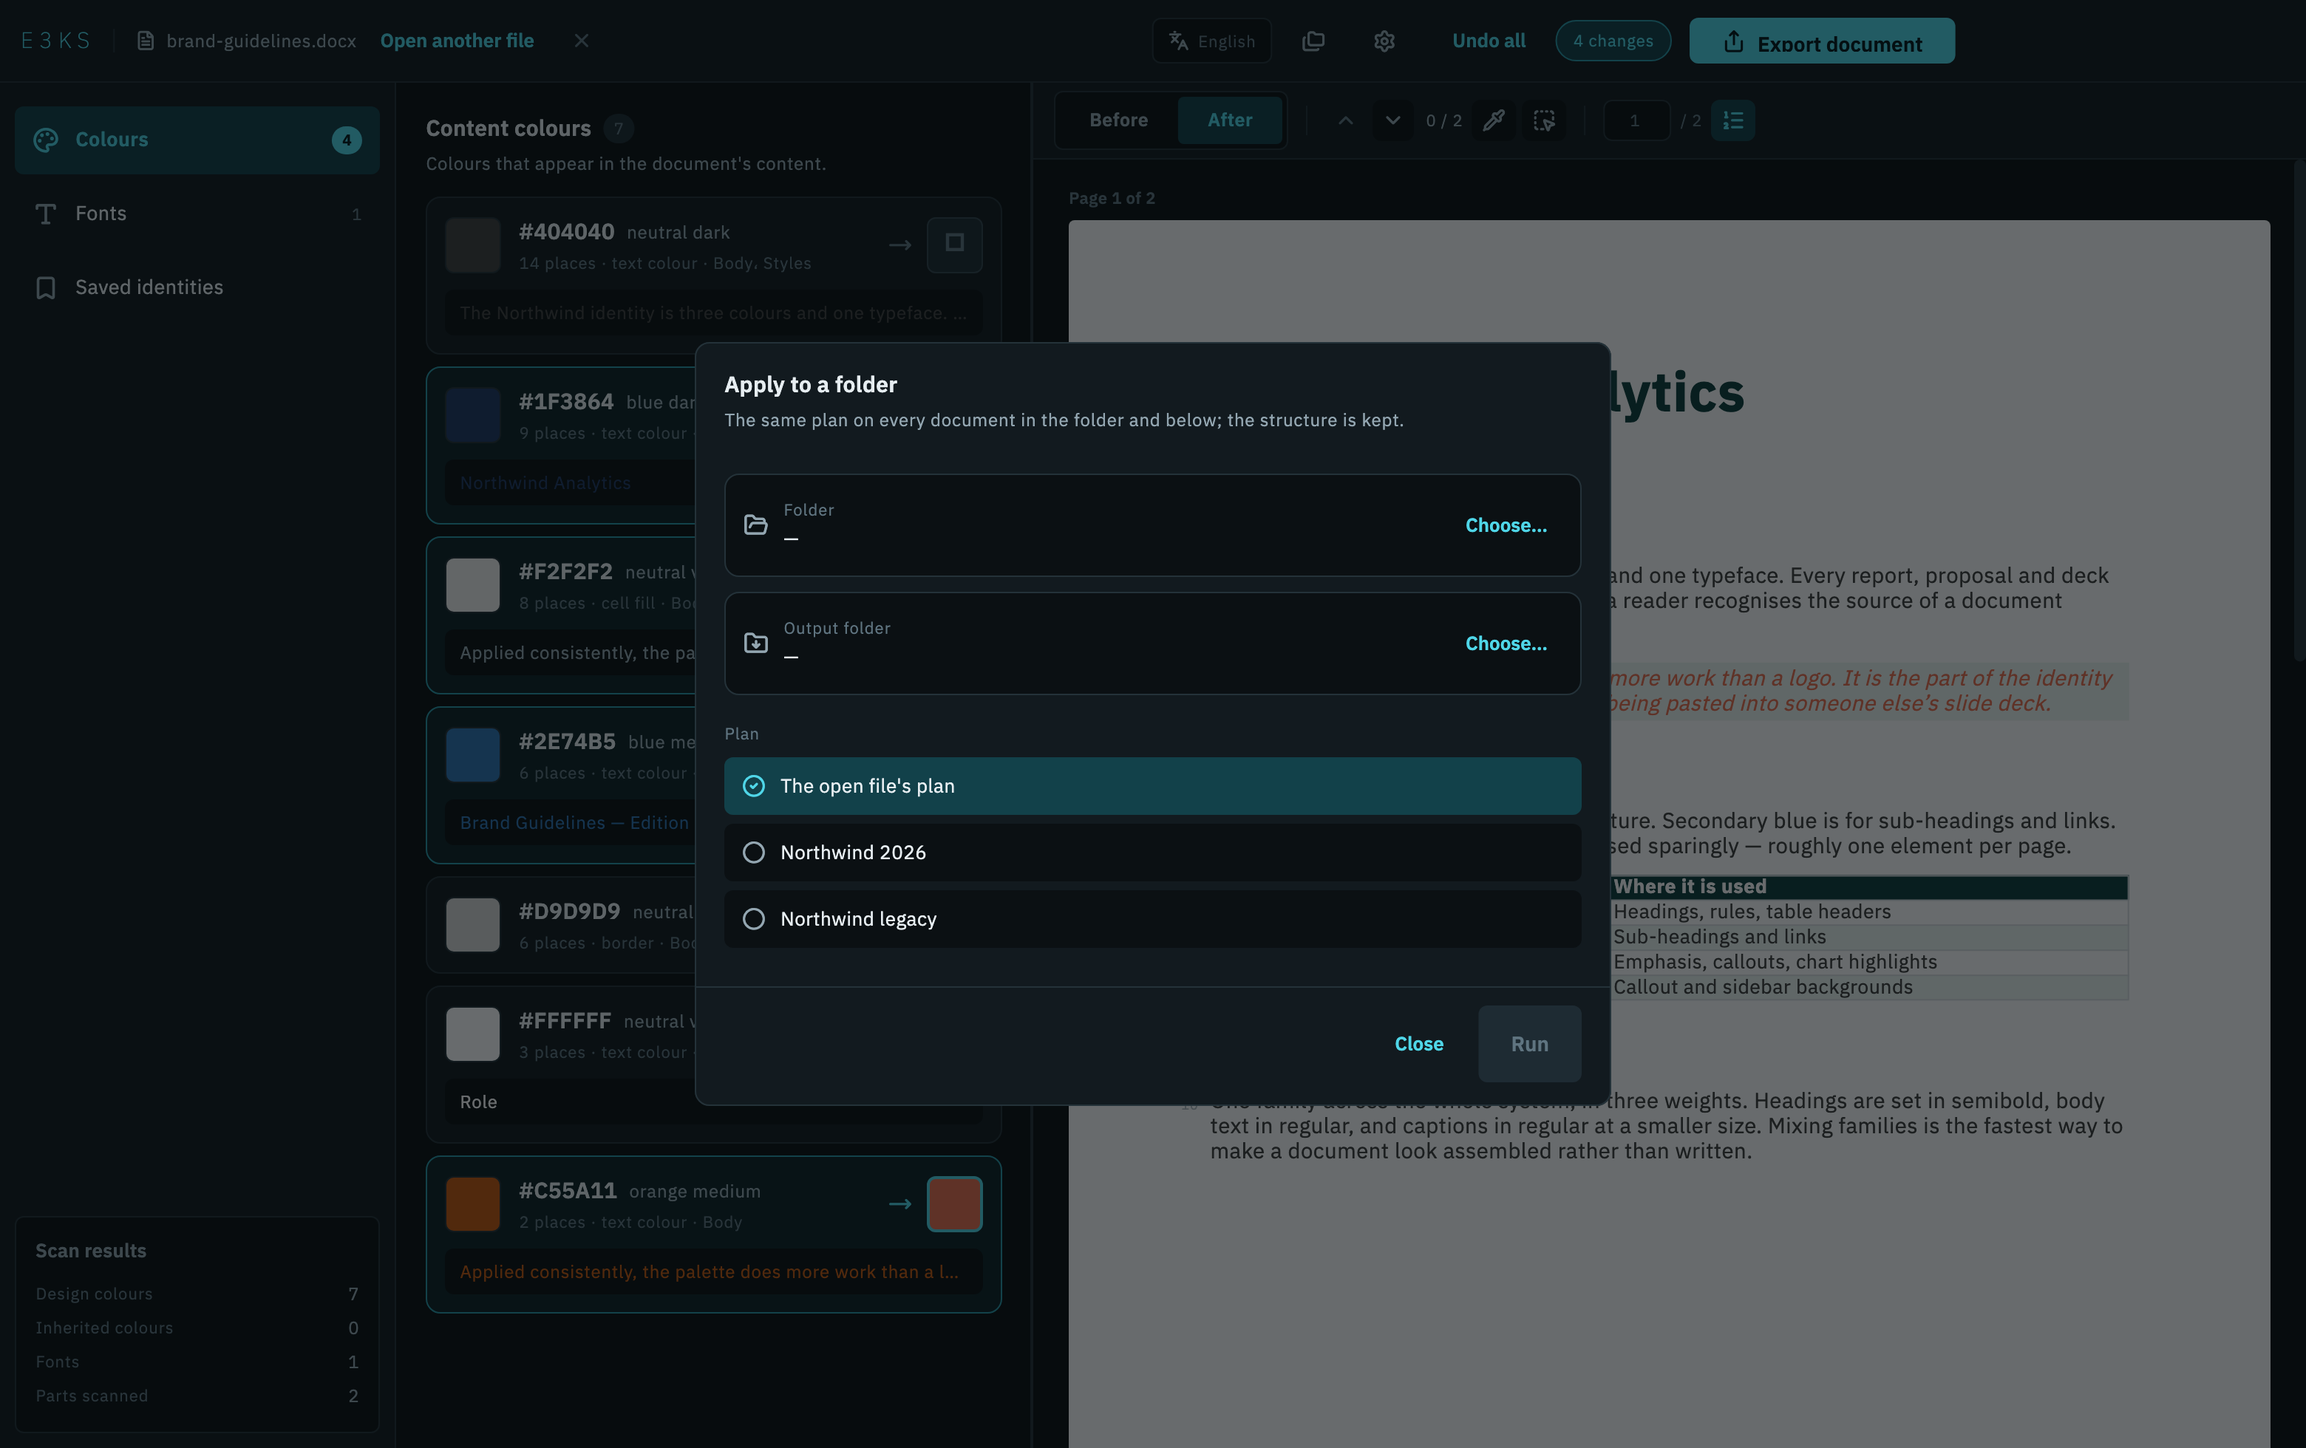
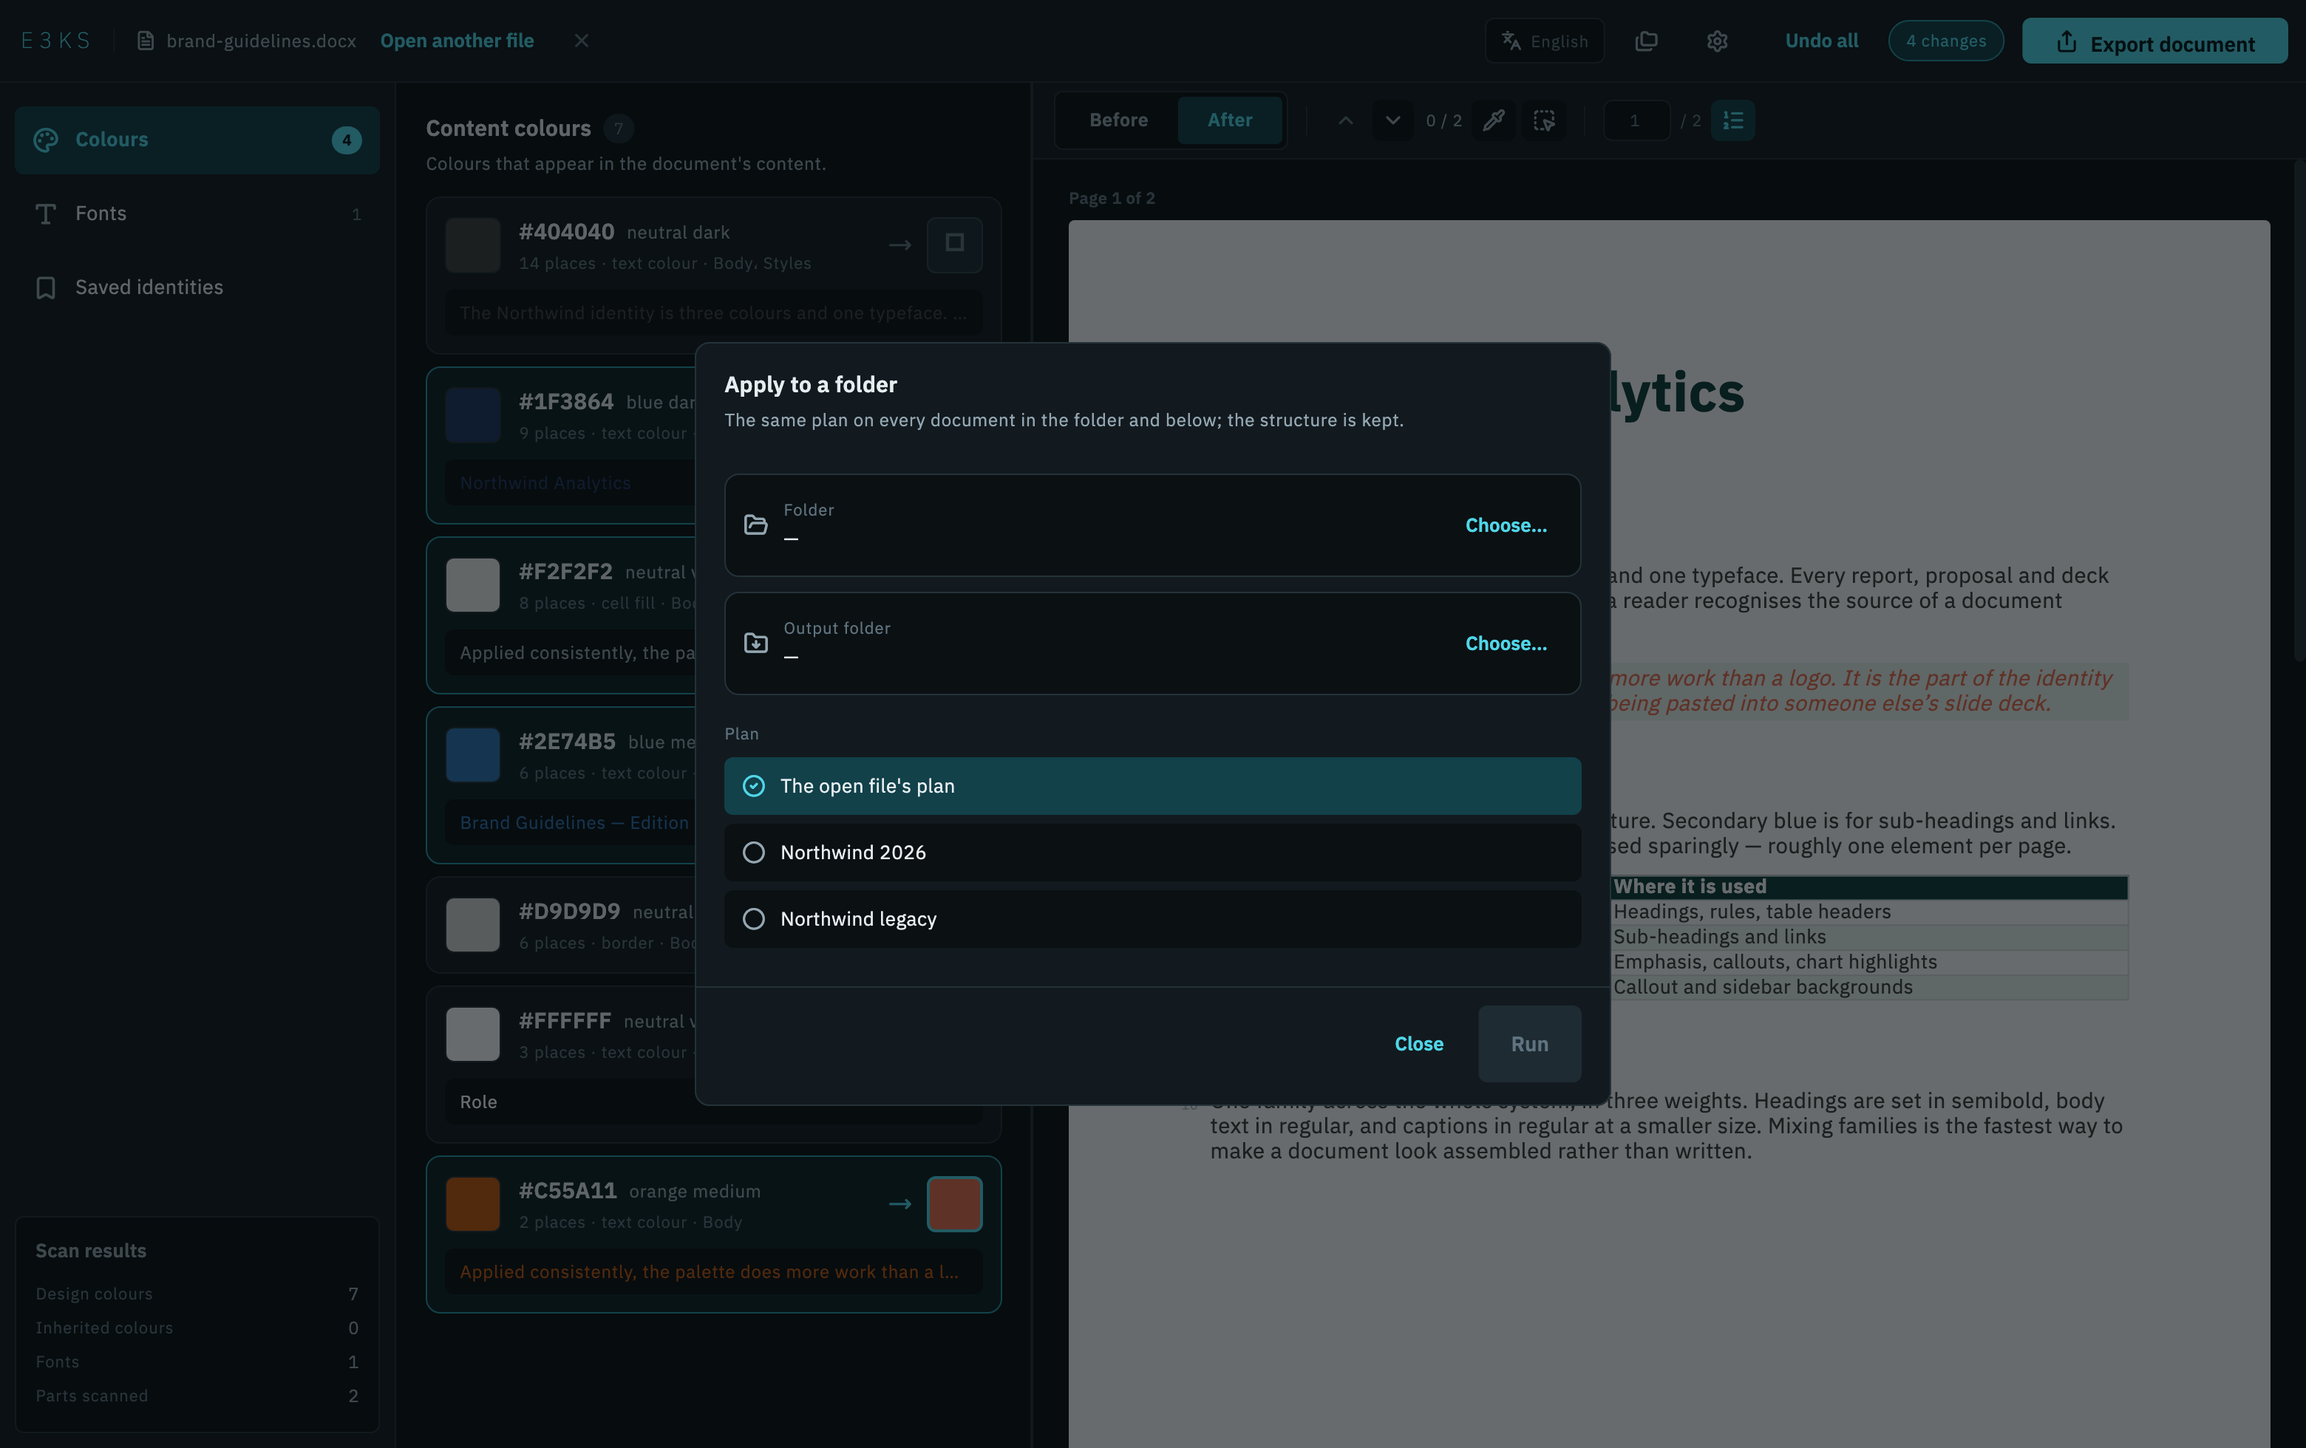
fix: update layout handling in top bar to prevent overflow and ensure proper alignment

Changed region(s): [[0.6529, 0.0, 0.9949, 0.0622]]

diff --git a/apps/e3ks_desktop/lib/features/workspace/workspace_screen.dart b/apps/e3ks_desktop/lib/features/workspace/workspace_screen.dart
@@ -344,52 +344,68 @@ class _TopBar extends StatelessWidget {
         data: theme.copyWith(visualDensity: VisualDensity.compact),
         child: Row(
           children: [
-            Text(
-              t.appName,
-              style: const TextStyle(
-                fontSize: 15,
-                fontWeight: Type.display,
-                letterSpacing: 4,
-                color: Shade.mirror,
+            // **الطرف الأيسر مرنٌ واحد، والفائض لا يُقسَم.**
+            //
+            // كان هنا `Flexible` لاسم الملف و`Spacer` بعده، ولكلٍّ منهما
+            // مرونة ١. و`RenderFlex` يقسم الفضاء الحرّ بينهما بالتساوي،
+            // فيأخذ الاسم حاجته وحدها ويسقط باقي نصيبه **في آخر الصفّ**:
+            // الطرف الأيمن ينزاح عن حافّته بنصف ما يفيض عن الاسم — فراغٌ
+            // يتّسع باتّساع النافذة، وقد بلغ ٣٢٣ بكسل في لقطات README حتى
+            // بدا كأنه حجزٌ لأزرار نظامٍ غائبة.
+            //
+            // مرنٌ واحد يبتلع الفضاء كلّه، فيلتصق الطرف الأيمن بحافّته
+            // مهما طال الاسم أو قصر، ويبقى القصّ داخل الصفّ الداخلي.
+            Expanded(
+              child: Row(
+                children: [
+                  Text(
+                    t.appName,
+                    style: const TextStyle(
+                      fontSize: 15,
+                      fontWeight: Type.display,
+                      letterSpacing: 4,
+                      color: Shade.mirror,
+                    ),
+                  ),
+                  Container(
+                    width: 1,
+                    height: 16,
+                    margin: const EdgeInsets.symmetric(horizontal: 14),
+                    color: Shade.border,
+                  ),
+                  if (document == null)
+                    Text(t.tagline, style: theme.textTheme.labelSmall)
+                  else ...[
+                    const Icon(
+                      LucideIcons.fileText,
+                      size: 14,
+                      color: Shade.textMuted,
+                    ),
+                    const SizedBox(width: 7),
+                    // اسم الملف قد يطول؛ يُقصّ ولا يدفع شيئًا خارج النافذة.
+                    Flexible(
+                      child: Text(
+                        document.fileName,
+                        maxLines: 1,
+                        overflow: TextOverflow.ellipsis,
+                        style: theme.textTheme.bodySmall,
+                      ),
+                    ),
+                    const SizedBox(width: 4),
+                    TextButton(onPressed: onBrowse, child: Text(t.openAnother)),
+                    if (store.tabs.length < 2)
+                      IconButton(
+                        onPressed: onClose,
+                        icon: const Icon(LucideIcons.x, size: 15),
+                        color: Shade.textFaint,
+                        visualDensity: VisualDensity.compact,
+                        tooltip: t.close,
+                      ),
+                  ],
+                  const SizedBox(width: 12),
+                ],
               ),
             ),
-            Container(
-              width: 1,
-              height: 16,
-              margin: const EdgeInsets.symmetric(horizontal: 14),
-              color: Shade.border,
-            ),
-            if (document == null)
-              Text(t.tagline, style: theme.textTheme.labelSmall)
-            else ...[
-              const Icon(
-                LucideIcons.fileText,
-                size: 14,
-                color: Shade.textMuted,
-              ),
-              const SizedBox(width: 7),
-              // اسم الملف قد يطول؛ يُقصّ ولا يدفع شيئًا خارج النافذة.
-              Flexible(
-                child: Text(
-                  document.fileName,
-                  maxLines: 1,
-                  overflow: TextOverflow.ellipsis,
-                  style: theme.textTheme.bodySmall,
-                ),
-              ),
-              const SizedBox(width: 4),
-              TextButton(onPressed: onBrowse, child: Text(t.openAnother)),
-              if (store.tabs.length < 2)
-                IconButton(
-                  onPressed: onClose,
-                  icon: const Icon(LucideIcons.x, size: 15),
-                  color: Shade.textFaint,
-                  visualDensity: VisualDensity.compact,
-                  tooltip: t.close,
-                ),
-            ],
-            const SizedBox(width: 12),
-            const Spacer(),
             _LanguageMenu(settings: settings),
             const SizedBox(width: 4),
             // الدفعة بجوار الإعدادات: كلاهما فعلٌ يفتح حوارًا، ولا يزاحم

diff --git a/apps/e3ks_desktop/test/top_bar_frame_test.dart b/apps/e3ks_desktop/test/top_bar_frame_test.dart
@@ -2,6 +2,7 @@
 library;
 
 import 'dart:io';
+import 'dart:typed_data';
 
 import 'package:e3ks_desktop/app/theme.dart';
 import 'package:e3ks_desktop/data/font_cache.dart';
@@ -30,7 +31,22 @@ final SettingsStore _settings = SettingsStore(
 final FontService _fonts = FontService(FontCache(Directory.systemTemp))
   ..fetchEnabled = false;
 
-Widget harness(WindowFrame frame) => MaterialApp(
+/// مستند العرض المشحون مع المستودع — موجود دائمًا، فلا اختبار يُتخطّى.
+const String _demo = '../../docs/demo/brand-guidelines.docx';
+
+Future<WorkspaceStore> openDemo(WidgetTester tester) async {
+  final store = WorkspaceStore();
+  await tester.runAsync(
+    () => store.open(
+      _demo,
+      'brand-guidelines.docx',
+      Uint8List.fromList(File(_demo).readAsBytesSync()),
+    ),
+  );
+  return store;
+}
+
+Widget harness(WindowFrame frame, {WorkspaceStore? store}) => MaterialApp(
   theme: buildTheme(),
   locale: const Locale('ar'),
   supportedLocales: L.supportedLocales,
@@ -41,7 +57,7 @@ Widget harness(WindowFrame frame) => MaterialApp(
     GlobalCupertinoLocalizations.delegate,
   ],
   home: WorkspaceScreen(
-    store: _store,
+    store: store ?? _store,
     identities: _identities,
     settings: _settings,
     fonts: _fonts,
@@ -131,6 +147,36 @@ void main() {
 
     await tester.pumpAndSettle();
     expect(topBarPadding(tester).right, equals(_inset));
+  });
+
+  testWidgets('طرف الشريط يلتصق بحافّته مهما اتّسعت النافذة', (tester) async {
+    // **خلل حقيقي:** كان في الصفّ مرنان — `Flexible` لاسم الملف و`Spacer`
+    // بعده — و`RenderFlex` يقسم الفضاء الحرّ بين المرنَين بالتساوي. الاسم
+    // يأخذ حاجته وحدها، ونصيبه الباقي يسقط **في آخر الصفّ**: الطرف الأيمن
+    // ينزاح عن حافّته بمقدارٍ يتّسع باتّساع النافذة. بلغ ٣٢٣ بكسل في لقطات
+    // README حتى بدا كأنه حجزٌ لأزرار نظامٍ غائبة.
+    //
+    // ولذلك يُقاس على عرضين: الفراغ الثابت مع اتّساع النافذة هو الدليل.
+    // والواجهة هنا عربية، فطرف الأفعال يسارًا وآخر الصفّ عنده.
+    tester.view.devicePixelRatio = 1;
+    addTearDown(tester.view.reset);
+
+    final store = await openDemo(tester);
+    expect(store.hasDocument, isTrue, reason: 'مستند العرض لم يُفتح');
+
+    for (final width in [1400.0, 1600.0]) {
+      tester.view.physicalSize = Size(width, 900);
+      await tester.pumpWidget(harness(flatWindowFrame, store: store));
+      await tester.pumpAndSettle();
+
+      final button = tester.getRect(find.byType(FilledButton).first);
+      expect(button.top, equals(_inset), reason: 'ليس زرّ الشريط');
+      expect(
+        button.left,
+        equals(_inset),
+        reason: 'طرف الأفعال منزاح عن حافّته عند عرض $width',
+      );
+    }
   });
 
   testWidgets('نصّ أزرار الشريط لا يُقصّ عند حدوده', (tester) async {

diff --git a/.claude/rules/03-قواعد-الكود.md b/.claude/rules/03-قواعد-الكود.md
@@ -116,6 +116,14 @@ final class Failed<T> extends EngineResult<T> { final List<EngineIssue> issues; 
   **ولا يظهر في زرٍّ معزول.** جرّبتُ الزرّ وحده فرسمه سليمًا، ولم ينكشف إلا
   حين رسمتُ `WorkspaceScreen` نفسه واقتطعتُ الشريط منه. **الودجة تُختبر في
   موضعها من الشجرة، لا في عزلة تُخفي ضغط قيودها.**
+- **مرنٌ واحد في الصفّ، وإلّا سقط الفائض في آخره.** `RenderFlex` يقسم الفضاء
+  الحرّ على المرنين بالتساوي، والمرن الفضفاض (`Flexible`) يأخذ حاجته وحدها
+  ويترك باقي نصيبه معلّقًا — فيستقرّ في **آخر الصفّ** لا حيث تُرك. كان في
+  الشريط العلوي `Flexible` لاسم الملف و`Spacer` بعده، فانزاح طرف الأفعال عن
+  حافّته بمقدارٍ يتّسع باتّساع النافذة، حتى بلغ ٣٢٣ بكسل في لقطات README
+  وبدا كأنه حجزٌ لأزرار نظامٍ غائبة. العلاج: طرفٌ واحد مرن يبتلع الفضاء
+  كلّه، والقصّ داخل صفّه. **والدليل قياسٌ على عرضين**: فراغٌ يتغيّر بتغيّر
+  عرض النافذة قسمةٌ لا حجز.
 - **مسافة الشريط واحدة من كل حافّة.** فرقٌ بين الرأسية والأفقية يُرى ولو لم
   يُقَس: الزرّ يبدو ملتصقًا بحافّة وطافيًا عن أخرى. نضبط المسافة ونضغط كثافة
   الأزرار حتى تملأ ما بين الحافّتين، لا العكس.

diff --git a/.claude/CLAUDE.md b/.claude/CLAUDE.md
@@ -79,7 +79,7 @@
 - **ملف الهوية موصوف بشكله**: `version` للترحيل، و`role` لكل لون، و`map`
   قاعدةً صريحة تسبق الترجيح — وبها يخرج الملفّ التالي مطابقًا لسابقه
   (`05` ونموذج الهوية).
-٧٨ اختبار محرّك + ١٣١ اختبار واجهة وترجمة وأداء وخطوط ومقاس وحركة وتتبّع، كلها خضراء.
+٧٨ اختبار محرّك + ١٣٢ اختبار واجهة وترجمة وأداء وخطوط ومقاس وحركة وتتبّع، كلها خضراء.
 يُبنى ويُشغَّل على macOS.
 اللغتان العربية والإنجليزية مدعومتان، والاتجاه يتبع اللغة، ونبرة النصّ
 مقرَّرة في `07` §8: خبرٌ بارد بلا صيغة «نحن» ولا شعارات.
